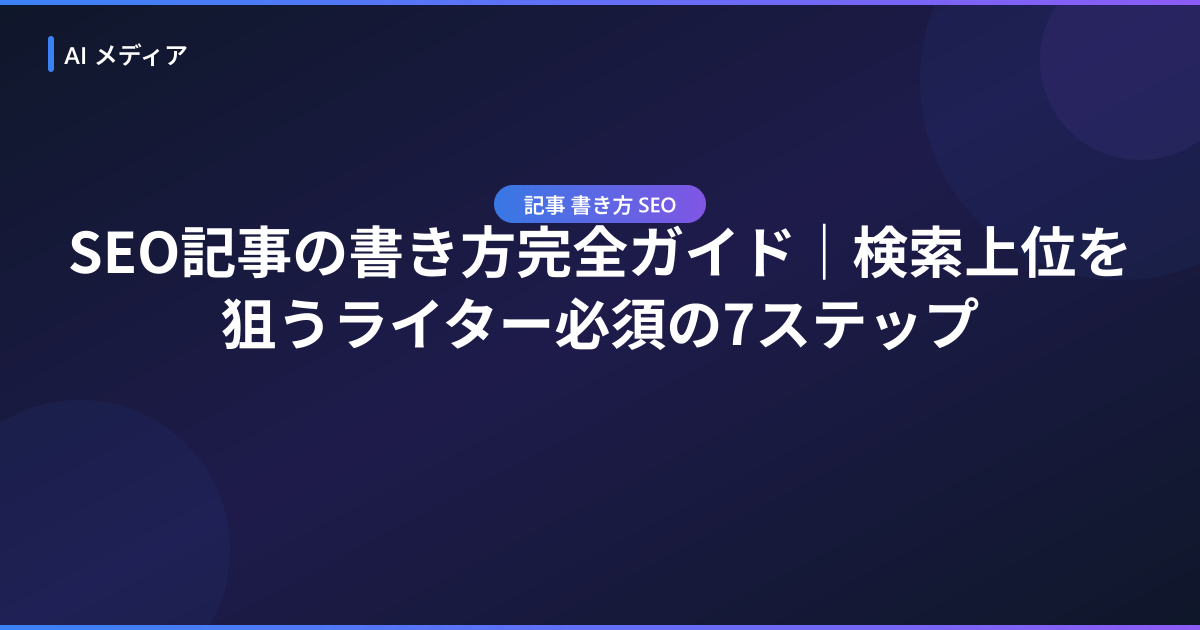
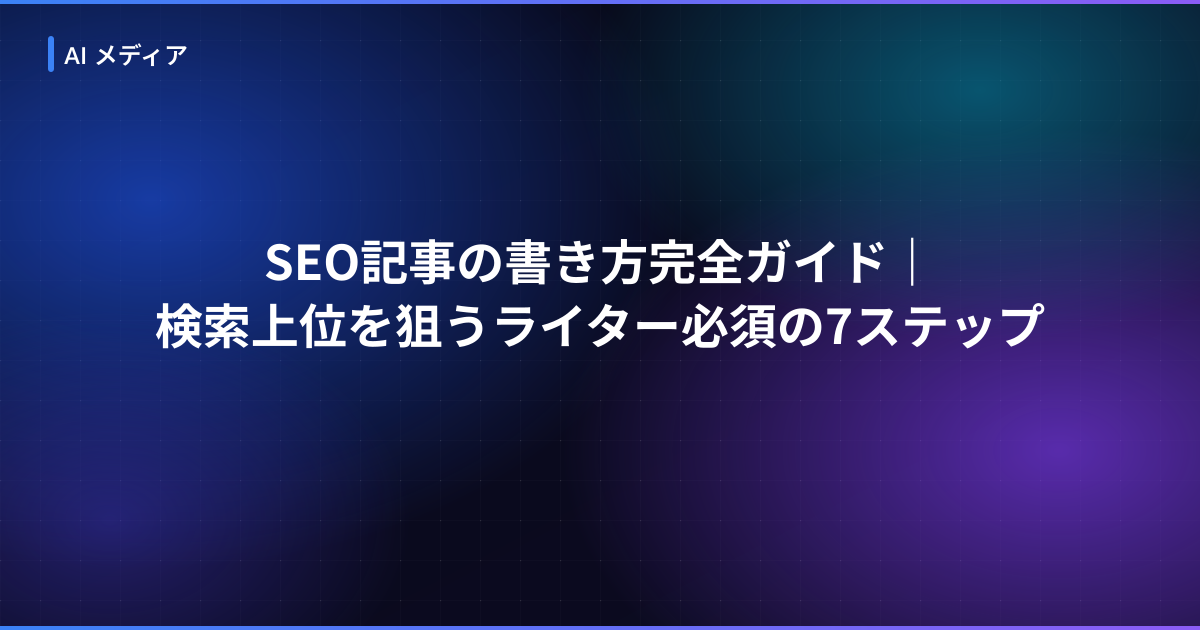
fix: OG画像の改行・背景・はみ出しを修正・全記事再生成
- wrapText: ｜？！：を優先改行文字に追加、前進/後退2パス探索で自然な位置に改行
- 背景: feGaussianBlurフィルター(sharpで不安定)→radialGradient+グリッドパターンに変更
- フォントサイズを最長行の文字数で動的決定し横はみ出しを解消
- キーワードバッジを削除

diff --git a/scripts/generate-og-image.ts b/scripts/generate-og-image.ts
@@ -51,25 +51,54 @@ function escapeXml(s: string): string {
   return s.replace(/&/g, '&amp;').replace(/</g, '&lt;').replace(/>/g, '&gt;').replace(/"/g, '&quot;');
 }
 
-function wrapText(title: string, maxLen = 20): string[] {
+function wrapText(title: string, maxLen = 22): string[] {
+  // 優先度高: 文の切れ目になる記号 / 優先度低: 軽い区切り
+  const major = new Set(['｜', '。', '？', '！', '、', '】', '）', '：']);
+  const minor = new Set(['・', ' ', '　', '-']);
   const lines: string[] = [];
-  let current = '';
-  for (const char of title) {
-    current += char;
-    if (current.length >= maxLen) { lines.push(current); current = ''; }
+  let remaining = title;
+
+  while (remaining.length > maxLen && lines.length < 2) {
+    const lo = Math.floor(maxLen * 0.35); // 低めに設定し '？' '：' 等も拾う
+    const hi = Math.min(Math.ceil(maxLen * 1.2), remaining.length - 1);
+    let breakAt = -1;
+
+    // 1. major 後: maxLen から lo へ後退スキャン
+    for (let i = maxLen; i >= lo; i--) {
+      if (i > 0 && major.has(remaining[i - 1])) { breakAt = i; break; }
+      if (i < remaining.length && (remaining[i] === '【' || remaining[i] === '（')) { breakAt = i; break; }
+    }
+    // 2. major 後: maxLen+1 から hi へ前進スキャン
+    if (breakAt === -1) {
+      for (let i = maxLen + 1; i <= hi; i++) {
+        if (major.has(remaining[i - 1])) { breakAt = i; break; }
+        if (i < remaining.length && (remaining[i] === '【' || remaining[i] === '（')) { breakAt = i; break; }
+      }
+    }
+    // 3. minor 後: maxLen から lo へ後退スキャン
+    if (breakAt === -1) {
+      for (let i = maxLen; i >= lo; i--) {
+        if (i > 0 && minor.has(remaining[i - 1])) { breakAt = i; break; }
+      }
+    }
+    // 4. 強制改行
+    if (breakAt === -1) breakAt = maxLen;
+
+    lines.push(remaining.slice(0, breakAt));
+    remaining = remaining.slice(breakAt);
   }
-  if (current) lines.push(current);
-  return lines.slice(0, 3);
+  if (remaining) lines.push(remaining);
+  return lines;
 }
 
-// Unsplash写真の上に重ねるオーバーレイ SVG（グラデーション + バッジ + タイトル）
-function buildOverlaySvg(title: string, keyword: string): string {
-  const lines = wrapText(title, 20);
-  const fontSize = lines.length <= 2 ? 56 : 48;
+// Unsplash写真の上に重ねるオーバーレイ SVG（グラデーション + タイトル）
+function buildOverlaySvg(title: string): string {
+  const lines = wrapText(title);
+  const maxLen = Math.max(...lines.map(l => l.length));
+  const fontSize = maxLen <= 18 ? 56 : maxLen <= 22 ? 48 : 42;
   const lineHeight = fontSize + 16;
   const totalTextH = lines.length * lineHeight;
 
-  // テキストブロックを下から130pxの位置に配置
   const textBlockBottom = OG_HEIGHT - 130;
   const textStartY = textBlockBottom - totalTextH + lineHeight;
 
@@ -78,10 +107,6 @@ function buildOverlaySvg(title: string, keyword: string): string {
       `<text x="72" y="${textStartY + i * lineHeight}" font-family="'Noto Sans JP', 'Hiragino Kaku Gothic ProN', sans-serif" font-size="${fontSize}" font-weight="bold" fill="white" filter="url(#shadow)">${escapeXml(line)}</text>`,
     )
     .join('\n  ');
-
-  // キーワードバッジ
-  const kwText = escapeXml(keyword);
-  const kwWidth = Math.min(keyword.length * 18 + 32, 300);
 
   return `<svg width="${OG_WIDTH}" height="${OG_HEIGHT}" xmlns="http://www.w3.org/2000/svg">
   <defs>
@@ -99,10 +124,6 @@ function buildOverlaySvg(title: string, keyword: string): string {
   <!-- サイト名（左上） -->
   <rect x="48" y="44" width="6" height="36" fill="${ACCENT_COLOR}" rx="3"/>
   <text x="64" y="72" font-family="sans-serif" font-size="24" font-weight="600" fill="white">${SITE_NAME}</text>
-
-  <!-- キーワードバッジ（タイトルの上） -->
-  <rect x="68" y="${textStartY - lineHeight - 12}" width="${kwWidth}" height="36" rx="18" fill="${ACCENT_COLOR}" fill-opacity="0.9"/>
-  <text x="${68 + kwWidth / 2}" y="${textStartY - lineHeight + 9}" font-family="sans-serif" font-size="20" font-weight="600" fill="white" text-anchor="middle">${kwText}</text>
 
   <!-- タイトル -->
   ${textElements}
@@ -144,13 +165,14 @@ async function fetchUnsplashPhoto(keyword: string): Promise<Buffer | null> {
   }
 }
 
-// フォールバック: グラデーション背景 + 装飾のSVG OG画像
-function buildFallbackSvg(title: string, keyword: string): string {
-  const lines = wrapText(title, 20);
-  const fontSize = lines.length <= 2 ? 56 : 48;
+// フォールバック: radialGradient オーロラ + グリッド背景
+function buildFallbackSvg(title: string): string {
+  const lines = wrapText(title);
+  const maxLen = Math.max(...lines.map(l => l.length));
+  const fontSize = maxLen <= 18 ? 56 : maxLen <= 22 ? 48 : 42;
   const lineHeight = fontSize + 16;
   const totalTextH = lines.length * lineHeight;
-  const textStartY = OG_HEIGHT / 2 - totalTextH / 2 + 30;
+  const textStartY = OG_HEIGHT / 2 - totalTextH / 2 + Math.round(fontSize * 0.6);
 
   const textElements = lines
     .map((line, i) =>
@@ -158,48 +180,70 @@ function buildFallbackSvg(title: string, keyword: string): string {
     )
     .join('\n  ');
 
-  const kwText = escapeXml(keyword);
-  const kwWidth = Math.min(keyword.length * 18 + 32, 320);
-
   return `<svg width="${OG_WIDTH}" height="${OG_HEIGHT}" xmlns="http://www.w3.org/2000/svg">
   <defs>
-    <linearGradient id="bg" x1="0" y1="0" x2="1" y2="1">
-      <stop offset="0%"   stop-color="#0f172a"/>
-      <stop offset="50%"  stop-color="#1e1b4b"/>
-      <stop offset="100%" stop-color="#0f172a"/>
+    <!-- ベースグラデーション -->
+    <linearGradient id="base" x1="0" y1="0" x2="1" y2="1">
+      <stop offset="0%"   stop-color="#060918"/>
+      <stop offset="100%" stop-color="#0d0b22"/>
     </linearGradient>
+    <!-- オーロラブロブ (radialGradient = フィルター不要で sharp で確実に描画) -->
+    <radialGradient id="r1" cx="50%" cy="50%" r="50%">
+      <stop offset="0%"   stop-color="#1d4ed8" stop-opacity="0.72"/>
+      <stop offset="100%" stop-color="#1d4ed8" stop-opacity="0"/>
+    </radialGradient>
+    <radialGradient id="r2" cx="50%" cy="50%" r="50%">
+      <stop offset="0%"   stop-color="#7c3aed" stop-opacity="0.68"/>
+      <stop offset="100%" stop-color="#7c3aed" stop-opacity="0"/>
+    </radialGradient>
+    <radialGradient id="r3" cx="50%" cy="50%" r="50%">
+      <stop offset="0%"   stop-color="#0891b2" stop-opacity="0.55"/>
+      <stop offset="100%" stop-color="#0891b2" stop-opacity="0"/>
+    </radialGradient>
+    <radialGradient id="r4" cx="50%" cy="50%" r="50%">
+      <stop offset="0%"   stop-color="#4338ca" stop-opacity="0.45"/>
+      <stop offset="100%" stop-color="#4338ca" stop-opacity="0"/>
+    </radialGradient>
+    <!-- アクセントライン -->
     <linearGradient id="accent" x1="0" y1="0" x2="1" y2="0">
       <stop offset="0%"   stop-color="${ACCENT_COLOR}"/>
       <stop offset="100%" stop-color="#8b5cf6"/>
     </linearGradient>
+    <!-- グリッド線 -->
+    <pattern id="grid" width="40" height="40" patternUnits="userSpaceOnUse">
+      <path d="M 40 0 L 0 0 0 40" fill="none" stroke="rgba(255,255,255,0.045)" stroke-width="0.8"/>
+    </pattern>
+    <!-- 交点ドット -->
+    <pattern id="gdot" width="40" height="40" patternUnits="userSpaceOnUse">
+      <circle cx="0" cy="0" r="1.3" fill="white" opacity="0.13"/>
+    </pattern>
   </defs>
 
-  <!-- 背景 -->
-  <rect width="${OG_WIDTH}" height="${OG_HEIGHT}" fill="url(#bg)"/>
+  <!-- ベース -->
+  <rect width="${OG_WIDTH}" height="${OG_HEIGHT}" fill="url(#base)"/>
 
-  <!-- 装飾: 右上の円 -->
-  <circle cx="${OG_WIDTH - 80}" cy="80" r="200" fill="#3b82f6" fill-opacity="0.06"/>
-  <circle cx="${OG_WIDTH - 60}" cy="60" r="100" fill="#8b5cf6" fill-opacity="0.08"/>
+  <!-- グリッド -->
+  <rect width="${OG_WIDTH}" height="${OG_HEIGHT}" fill="url(#grid)"/>
+  <rect width="${OG_WIDTH}" height="${OG_HEIGHT}" fill="url(#gdot)"/>
 
-  <!-- 装飾: 左下の円 -->
-  <circle cx="80" cy="${OG_HEIGHT - 80}" r="150" fill="${ACCENT_COLOR}" fill-opacity="0.06"/>
+  <!-- オーロラブロブ (各コーナーに配置・中央でうっすら重なる) -->
+  <ellipse cx="150"  cy="200"  rx="540" ry="370" fill="url(#r1)"/>
+  <ellipse cx="1060" cy="450"  rx="500" ry="320" fill="url(#r2)"/>
+  <ellipse cx="980"  cy="90"   rx="400" ry="250" fill="url(#r3)"/>
+  <ellipse cx="110"  cy="520"  rx="300" ry="210" fill="url(#r4)"/>
 
   <!-- 上部アクセントライン -->
-  <rect x="0" y="0" width="${OG_WIDTH}" height="5" fill="url(#accent)"/>
+  <rect x="0" y="0" width="${OG_WIDTH}" height="4" fill="url(#accent)"/>
 
   <!-- サイト名（左上） -->
   <rect x="48" y="36" width="6" height="36" fill="${ACCENT_COLOR}" rx="3"/>
   <text x="64" y="64" font-family="sans-serif" font-size="24" font-weight="600" fill="white">${SITE_NAME}</text>
 
-  <!-- キーワードバッジ -->
-  <rect x="${600 - kwWidth / 2}" y="${textStartY - lineHeight - 16}" width="${kwWidth}" height="38" rx="19" fill="url(#accent)" fill-opacity="0.9"/>
-  <text x="600" y="${textStartY - lineHeight + 12}" font-family="sans-serif" font-size="21" font-weight="600" fill="white" text-anchor="middle">${kwText}</text>
-
   <!-- タイトル -->
   ${textElements}
 
   <!-- 下部アクセントライン -->
-  <rect x="0" y="${OG_HEIGHT - 5}" width="${OG_WIDTH}" height="5" fill="url(#accent)"/>
+  <rect x="0" y="${OG_HEIGHT - 4}" width="${OG_WIDTH}" height="4" fill="url(#accent)"/>
 </svg>`;
 }
 
@@ -213,7 +257,7 @@ async function generateOgImage(slug: string, title: string, keyword: string): Pr
   const photoBuffer = await fetchUnsplashPhoto(keyword);
 
   if (photoBuffer) {
-    const overlay = buildOverlaySvg(title, keyword);
+    const overlay = buildOverlaySvg(title);
     await sharp(photoBuffer)
       .resize(OG_WIDTH, OG_HEIGHT, { fit: 'cover', position: 'center' })
       .composite([{ input: Buffer.from(overlay), top: 0, left: 0 }])
@@ -221,7 +265,7 @@ async function generateOgImage(slug: string, title: string, keyword: string): Pr
       .toFile(outPath);
     console.log(`OG画像生成 (Unsplash): ${slug}.png`);
   } else {
-    const svg = buildFallbackSvg(title, keyword);
+    const svg = buildFallbackSvg(title);
     await sharp(Buffer.from(svg)).png().toFile(outPath);
     console.log(`OG画像生成 (SVG fallback): ${slug}.png`);
   }
